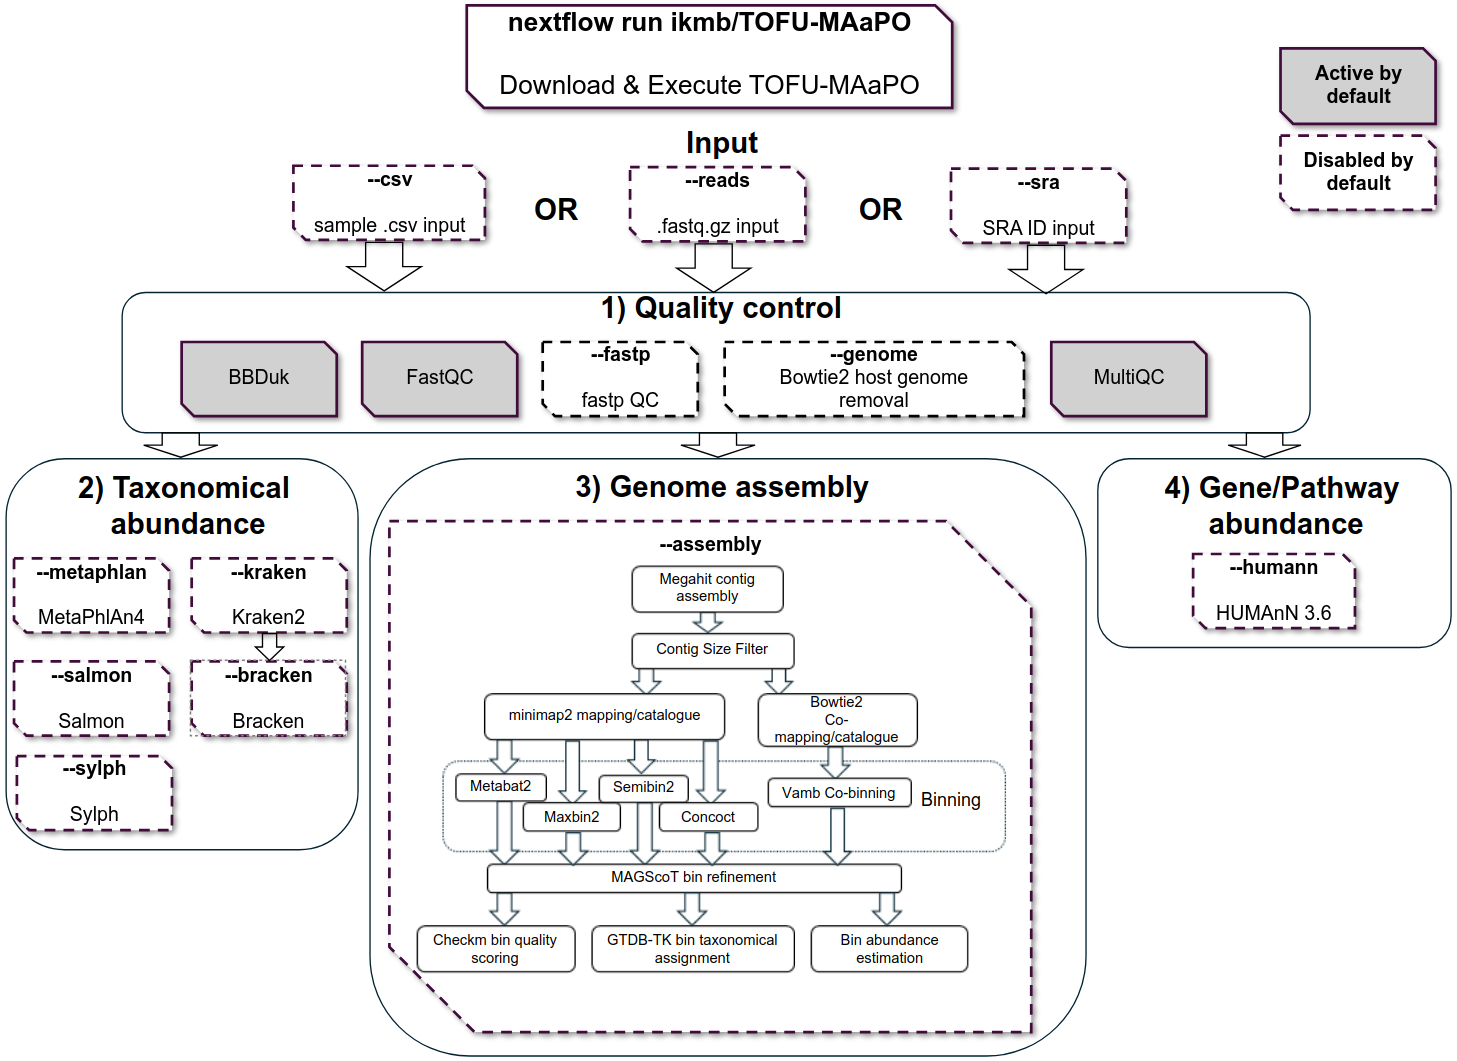
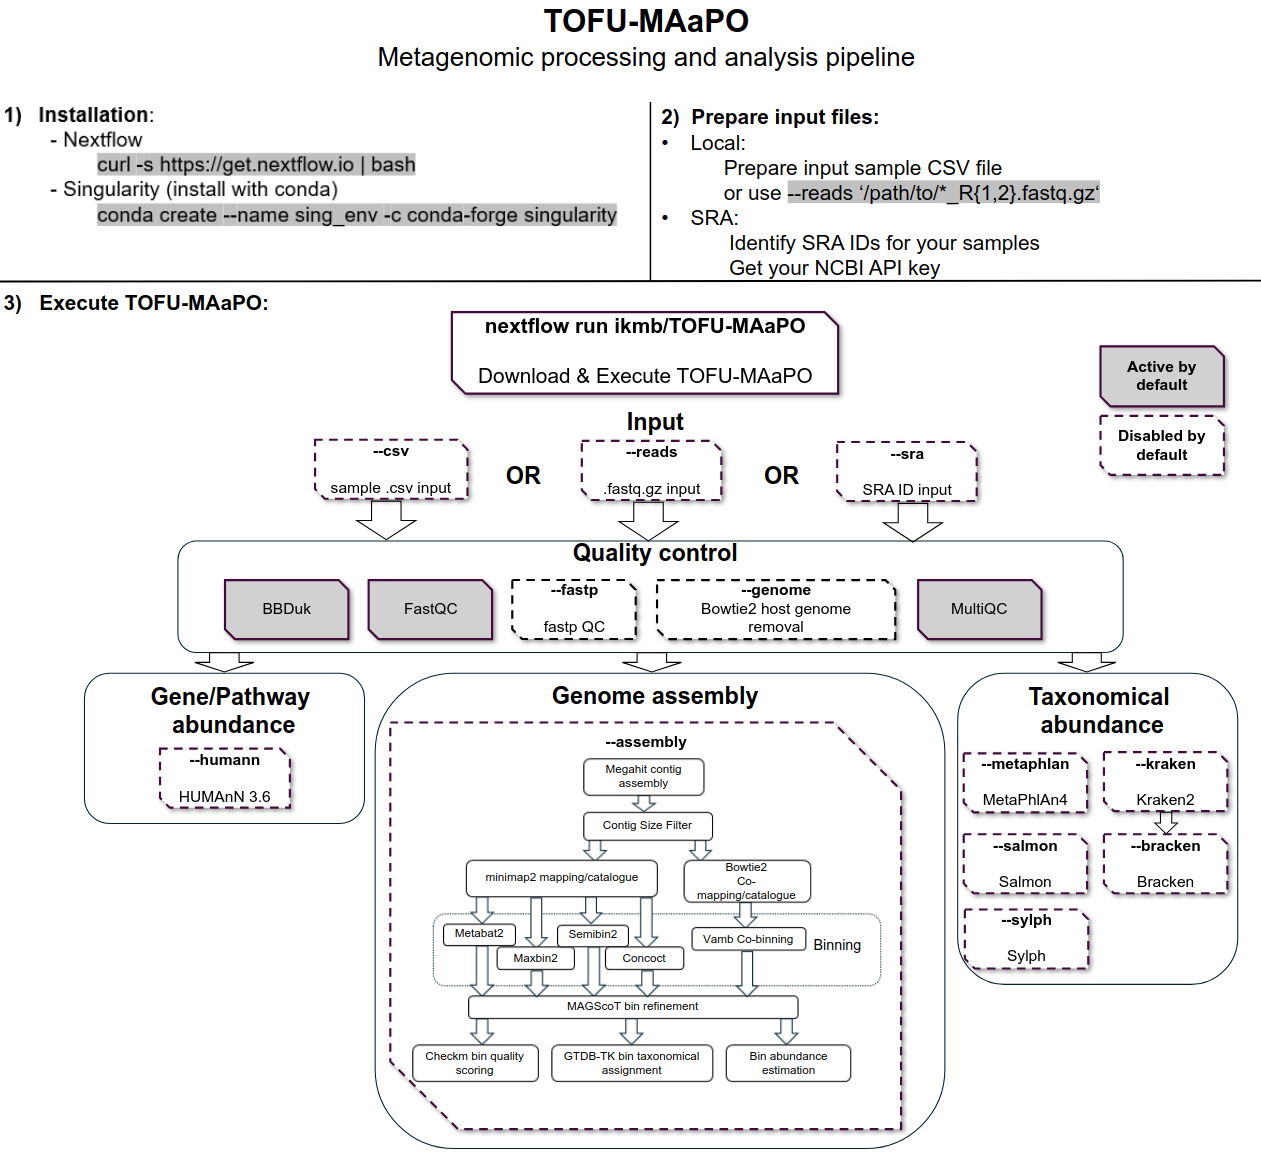
update of readme

Changed region(s): [[0.0, 0.0, 0.9897, 1.0], [0.9897, 0.4354, 1.0, 0.591]]

diff --git a/README.md b/README.md
@@ -4,6 +4,26 @@
 
 Taxonomic Or FUnctional Metagenomic Assembly and PrOfiling = TOFU-MAaPO 
 
+# Table of content
+- [TOFU-MAaPO](#tofu-maapo)
+- [Table of content](#table-of-content)
+- [Pipeline Structure](#pipeline-structure)
+- [Overview](#overview)
+- [Quick start](#quick-start)
+  - [Prerequisites:](#prerequisites)
+  - [Nextflow and Singularity installation](#nextflow-and-singularity-installation)
+  - [Download or update TOFU-MAaPO](#download-or-update-tofu-maapo)
+  - [Create your config file:](#create-your-config-file)
+  - [Running TOFU-MAaPO:](#running-tofu-maapo)
+    - [Running quality control:](#running-quality-control)
+      - [Locally stored input:](#locally-stored-input)
+      - [SRA input:](#sra-input)
+    - [Running metabolic gene/pathway estimation with HUMAnN](#running-metabolic-genepathway-estimation-with-humann)
+    - [Running assembly module](#running-assembly-module)
+    - [Running the taxonomic abundance tool MetaPhlan](#running-the-taxonomic-abundance-tool-metaphlan)
+- [Documentation](#documentation)
+- [Funding](#funding)
+
 # Pipeline Structure
 ![](./images/tofu_overview.png)
 Overview of TOFU-MAaPO 1.5.0
@@ -65,12 +85,26 @@ You can download and update the pipeline directly with Nextflow:<br />
 nextflow pull ikmb/TOFU-MAaPO
 ```
 You will find the pipeline code stored in `${HOME}/.nextflow/assets/ikmb/TOFU-MAaPO`.<br />
+## Create your config file:
+We have created a profile/configuration of TOFU-MAaPO with the name "quickstart". This is only designed for TOFU-MAaPO to be run locally in the "home" directory, to use a maximum of 4 cores per process and utilize only up to 32GB of memory. 
+To use all the features of TOFU-MAaPO, it is necessary to edit a configuration file so that Nextflow, for example would use a scheduler such as SLURM on an HPC or knows where the reference databases are or will be downloaded to. 
+It is also required to declare how much memory and how many CPU cores are available to the pipeline.
+Please edit the configurations to your system needs as explained in the [installation and configuration documentation](docs/installation.md).<br />
 
+On a computer system with more than 100GB of RAM and a configured custom.config file you can execute all of the following examples.
 
 ## Running TOFU-MAaPO:
-The input for TOFU-MAaPO can be either locally stored fastq.gz files or SRA IDs (sample or project).<br />
+The input for TOFU-MAaPO can be either locally stored fastq.gz files or SRA IDs (run, sample or project IDs as comma-separated list).<br />
 
-### Locally stored input:
+
+- [Example for metabolic gene/pathway estimation with HUMAnN](#running-metabolic-genepathway-estimation-with-humann)
+- [Example for metagenome assembly](#running-assembly-module-1)
+- [Example for taxonomic abundance estimation tool MetaPhlan](#running-the-taxonomic-abundance-tool-metaphlan)
+
+### Running quality control:
+The pipeline will by default perform quality control with read trimming, Phix and artefact decontamination and assess the quality pre- and post-qc'ed with fastqc and publish a MultiQC report.  For enabling the optional host genome decontamination, please see our documentation to [install a host genome in TOFU-MAaPO](/docs/hostgenome.md).
+
+#### Locally stored input:
 Create a directory to work in and download a publicly available paired-end metagenome  in your home-directory:
 ```
 mkdir -p ${HOME}/tofu-quickstart && cd ${HOME}/tofu-quickstart
@@ -78,7 +112,7 @@ wget https://ibdmdb.org/downloads/raw/HMP2/MGX/2018-05-04/PSM6XBR1.tar
 tar -xvf PSM6XBR1.tar && rm PSM6XBR1.tar
 ```
 
-Now start TOFU-MAaPO to perform QC (without host read removal) on the example metagenome. This should only take some minutes. <br />
+Now start TOFU-MAaPO to perform QC (without host read removal) on the example metagenome with the quickstart profile. This should only take some minutes. <br />
 ```
 nextflow run ikmb/TOFU-MAaPO \
     -profile quickstart \
@@ -88,7 +122,7 @@ nextflow run ikmb/TOFU-MAaPO \
 ```
 With the parameter `--cleanreads` the qc'ed fastq files will be published into the output directory "results".
 
-### SRA input:
+#### SRA input:
 
 TOFU-MAaPO can download metagenomes from NCBI SRA by SRA IDs. These can be Project, Sample or Run IDs. For this you need to get an account at NCBI and create your personal NCBI API key from NCBI. You can get your NCBI API key by going to NCBI -> Account -> [Account Settings](https://ncbi.nlm.nih.gov/account/settings/) -> API Key Management.
 
@@ -97,28 +131,55 @@ Create a directory to work in if you haven't done so earlier:
 mkdir -p ${HOME}/tofu-quickstart && cd ${HOME}/tofu-quickstart
 ```
 
-A workflow with QC (without host read removal) for a single metagenome with known SRA Run ID as input would look like this:
+A workflow with QC (without host read removal) for a single metagenomic sample with known SRA Run ID as input would look like this:
 
 ```
 nextflow run ikmb/TOFU-MAaPO \
     -profile quickstart \
-    ---sra 'SRX3105436' \
+    --sra 'SRX3105436' \
     --apikey **YOUR_NCBI_API_KEY** \
+    --cleanreads \
     --outdir results
 ```
 
+### Running metabolic gene/pathway estimation with HUMAnN
+**We strongly recommend creating [your own configuration file](/docs/hostgenome.md) for all example runs below.**
 
-### Okay, now we have run TOFU-MAaPO once for quality control, but I want to use some analysis tools of TOFU-MAaPO on my samples or want to run it on a large machine
+In your first run with HUMAnN, you are required to add the parameter `--updatehumann` and `--humann_db /path/to/store/humann/db`, so that TOFU-MAaPO will download the required database to the given path. Please keep in mind that this might take some hours to finish.
 
-Up to this point, we have used a profile/configuration of TOFU-MAaPO with the name "quickstart". This is only designed for TOFU-MAaPO to be run locally in the "home" directory, to use a maximum of 4 cores per process and to use only up to 32GB of memory.  
-To use all the features of TOFU-MAaPO, it is necessary to edit a configuration file so that Nextflow knows, for example, whether we want to use a scheduler such as SLURM on an HPC or where the reference databases are or should be located. It is also possible to make far more memory and CPU cores available to the pipeline.
-Please edit the configurations to your system needs as explained in the [installation and configuration documentation](docs/installation.md).<br />
-
-On a computer system with more than 100GB of RAM and a configured custom.config file you can for example execute the examples from above but with additional MAG assembly. Beware, this might take some hours:
-#### With locally available input:
+Run first:
 ```
 nextflow run ikmb/TOFU-MAaPO \
     -profile custom \
+    -c tofu.config \
+    --reads '*_R{1,2}.fastq.gz' \
+    --humann \
+    --updatehumann \
+    --humann_db '/path/to/store/humann/db' \
+    --outdir results
+```
+
+In all future runs, you do not need to download the required database again, so you can skip the parameter `--updatehumann`:
+
+```
+nextflow run ikmb/TOFU-MAaPO \
+    -profile custom \
+    -c tofu.config \
+    --reads '*_R{1,2}.fastq.gz' \
+    --humann \
+    --humann_db '/path/to/store/humann/db' \
+    --outdir results
+```
+
+### Running assembly module
+**We strongly recommend creating [your own configuration file](/docs/hostgenome.md) for all example runs below.**
+
+In your first run with HUMAnN, you are required to add the parameter `--updategtdbtk` and `--gtdbtk_reference /path/to/download/gtdbtk_db/to`, so that TOFU-MAaPO will download the required database to the given path. Please keep in mind that this might take some hours to finish.
+
+```
+nextflow run ikmb/TOFU-MAaPO \
+    -profile custom \
+    -c tofu.config \
     --reads '*_R{1,2}.fastq.gz' \
     --assembly \
     --updategtdbtk \
@@ -126,23 +187,47 @@ nextflow run ikmb/TOFU-MAaPO \
     --outdir results
 ```
 
-#### Or with SRA input:
+In all future runs, you are not required to download the database again, so you can skip the parameter `--updategtdbtk`:
+
 ```
 nextflow run ikmb/TOFU-MAaPO \
     -profile custom \
-    ---sra 'SRX3105436' \
+    -c tofu.config \
+    --reads '*_R{1,2}.fastq.gz' \
     --assembly \
-    --updategtdbtk \
-    --apikey **YOUR_NCBI_API_KEY**
     --gtdbtk_reference '/path/to/download/gtdbtk_db/to' \
     --outdir results
 ```
 
+### Running the taxonomic abundance tool MetaPhlan
+**We strongly recommend creating [your own configuration file](/docs/hostgenome.md) for all example runs below.**
+
+In your first run with MetaPhlan, you are required to add the parameter `--updatemetaphlan` and `--metaphlan_db /path/to/store/humann/db`, so that TOFU-MAaPO will download the required database to the given path. Please keep in mind that this might take some hours to finish.
+
+```
+nextflow run ikmb/TOFU-MAaPO \
+    -profile custom \
+    -c tofu.config \
+    --reads '*_R{1,2}.fastq.gz' \
+    --metaphlan \
+    --updatemetaphlan \
+    --metaphlan_db '/path/to/download/gtdbtk_db/to' \
+    --outdir results
+```
+
+In all future runs, you are not required to download the database again, so you can skip the parameter `--updatemetaphlan`:
+
+```
+nextflow run ikmb/TOFU-MAaPO \
+    -profile custom \
+    -c tofu.config \
+    --reads '*_R{1,2}.fastq.gz' \
+    --metaphlan \
+    --metaphlan_db '/path/to/download/gtdbtk_db/to' \
+    --outdir results
+```
+
 For further usage options please see the [usage documentation](docs/usage.md).<br />
-
-## Configuration
-Please edit the configurations to your system needs as explained in the [installation and configuration documentation](docs/installation.md).<br />
-
 # Documentation 
 
 All further documentation about the pipeline can be found in the `docs/` directory or under the links below:
